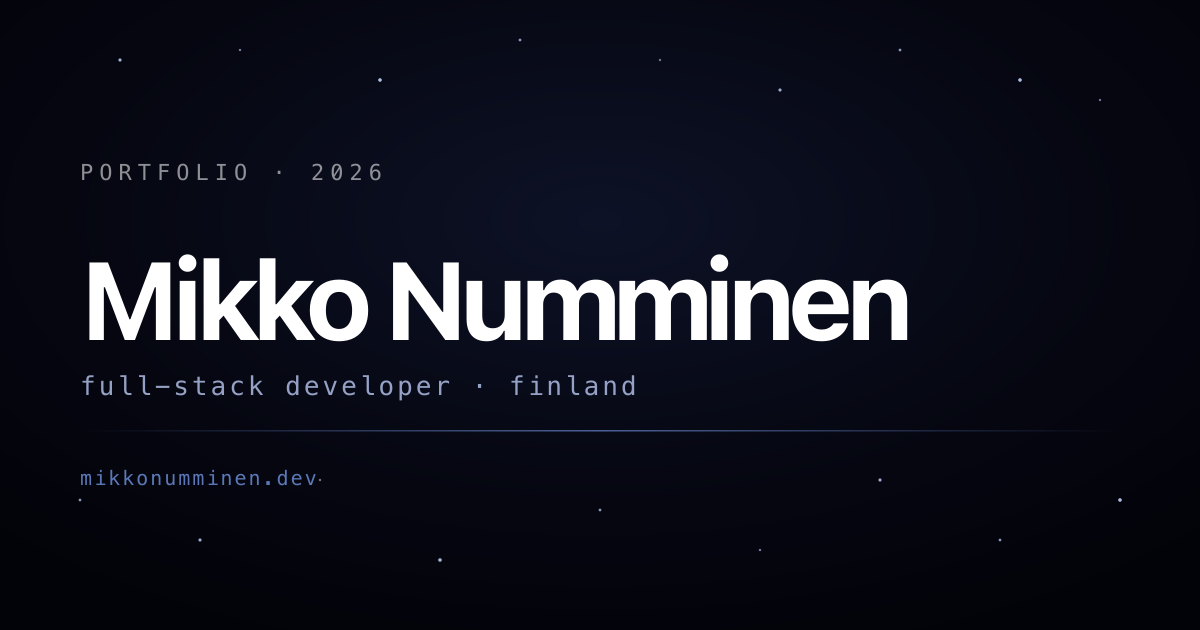
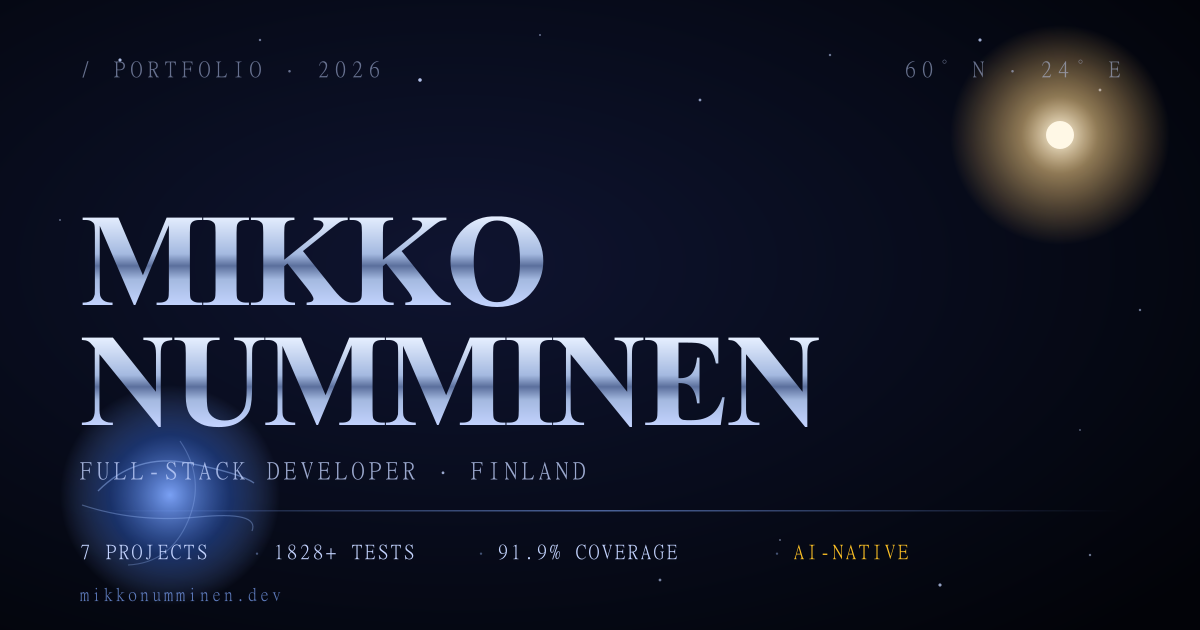
feat(og): polish the home link-preview card + sharper meta description (#66)
* feat(og): polish the home link-preview card + sharper meta description

When the site URL gets pasted into WhatsApp / Telegram / Slack / forums,
the existing OG card was readable but flat — small Mikko-Numminen text on
a plain particle field. The new card carries the lander's identity into
the chat preview so the link looks like a piece of the site, not a
default fallback.

Card changes (public/og-default.svg):
- "MIKKO NUMMINEN" stacked vertically at 132 px with a chrome gradient
  (highlight / midtone / shadow / lowlight) that suggests the live 3D
  extruded look without the render cost.
- Editorial corner markers — `/ PORTFOLIO · 2026` top-left, `60° N · 24° E`
  top-right — same language the live hero uses.
- Sun-bright star top-right matching the live horizon glow.
- Hairline rule + a row of credibility chips:
  `7 PROJECTS · 1828+ TESTS · 91.9% COVERAGE · AI-NATIVE`
  (AI-NATIVE in amber for emphasis).
- mikkonumminen.dev anchor at the bottom-left.
- Galaxy spiral as a faint background tint behind the lower-left.

Copy:
- meta.home.description tightened from a Linkedin-style sentence to a
  chat-preview hook:
  "Full-stack developer in Finland. Seven production apps shipped solo
   this year — real users, 1828+ tests, AI-native by default."
- en.ts only for now per the locale-last convention; mirror to fi.ts /
  sv.ts once the copy is approved.

Asset weight: og-default.png 57 KB -> 168 KB. Comfortably under the 5 MB
OG limit and a one-time fetch per share.
[…]

diff --git a/src/i18n/locales/en.ts b/src/i18n/locales/en.ts
@@ -5,7 +5,7 @@ export const en: Translations = {
     home: {
       title: 'Mikko Numminen — full-stack developer',
       description:
-        'Portfolio of Mikko Numminen, a full-stack developer from Finland building production web applications with AI-assisted workflows.',
+        'Full-stack developer in Finland. Seven production apps shipped solo this year — real users, 1828+ tests, AI-native by default.',
     },
     contact: {
       title: 'Contact — Mikko Numminen',
